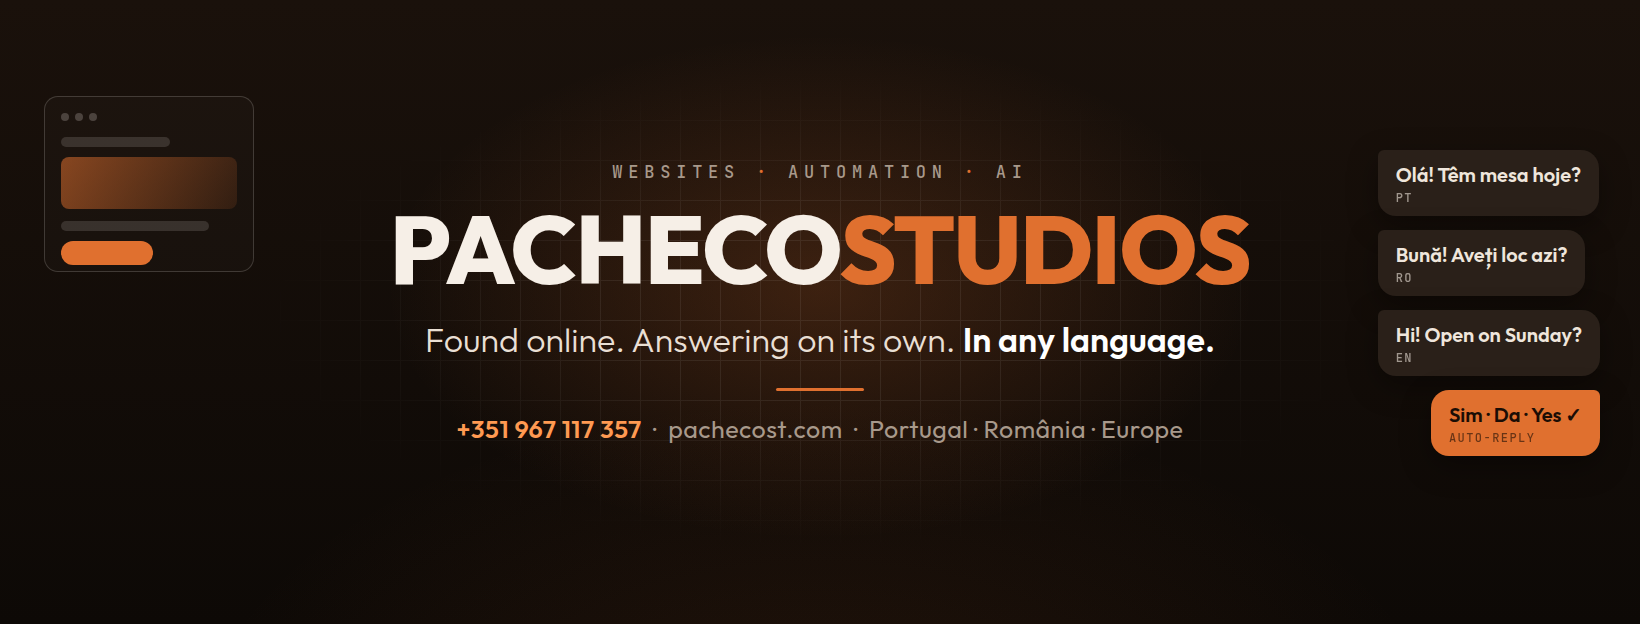
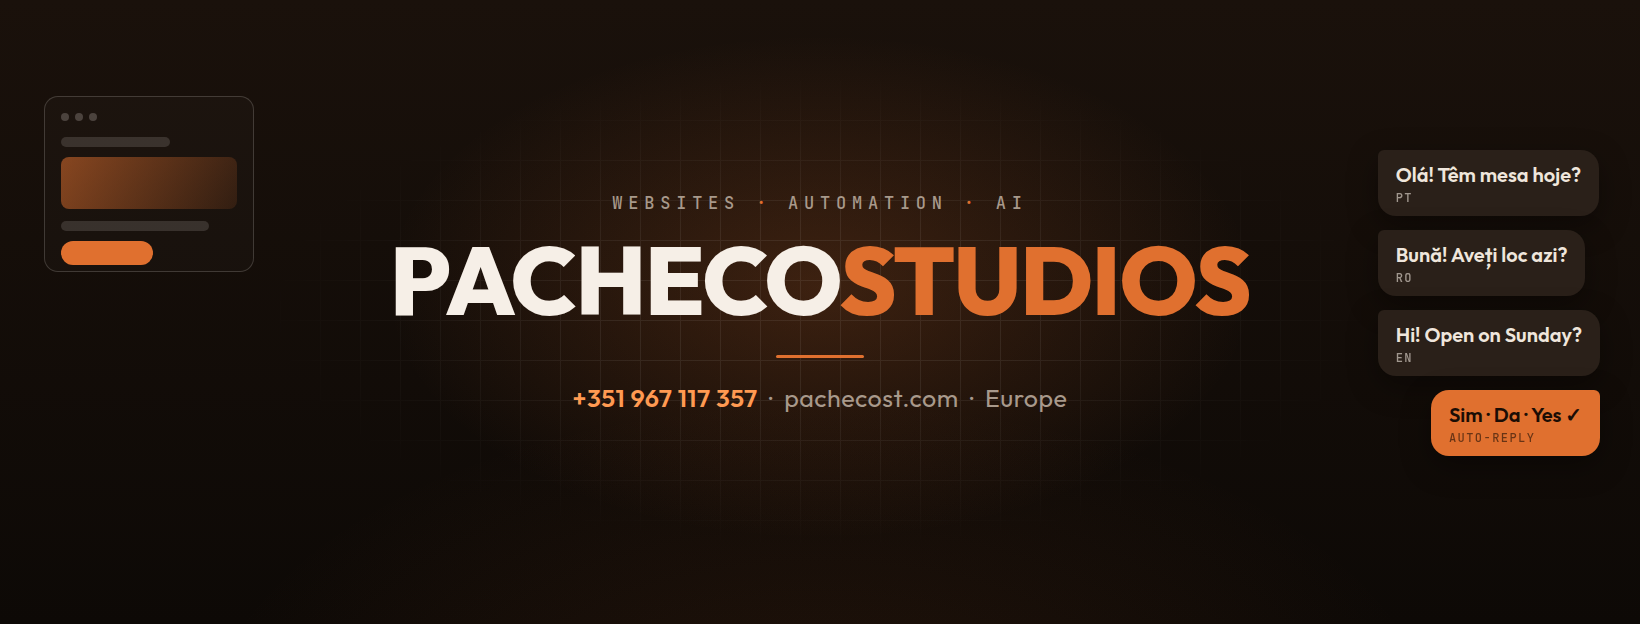
Capa Facebook: sem frase, só «Europe» no rodapé
Claude-Session: https://claude.ai/code/session_01XJUeXh6MKzB42CShjQuGbC

Changed region(s): [[0.2177, 0.2436, 0.7774, 0.5785], [0.2799, 0.609, 0.7152, 0.7003]]

diff --git a/marca/capa-facebook/capa.html b/marca/capa-facebook/capa.html
@@ -25,7 +25,7 @@ html,body{width:1640px;height:624px;overflow:hidden;background:var(--bg);font-fa
 .w span{color:var(--or)}
 .t{font-weight:300;font-size:34px;line-height:1.3;margin-top:24px;color:#e9dfd4}
 .t em{font-style:normal;font-weight:600;color:#fff}
-.hr{width:88px;height:3px;background:var(--or);border-radius:2px;margin:26px auto 22px}
+.hr{width:88px;height:3px;background:var(--or);border-radius:2px;margin:30px auto 24px}
 .ct{font-size:25px;font-weight:400;color:var(--mut);letter-spacing:.02em}
 .ct b{color:var(--or2);font-weight:600}
 /* direita: bolhas de chat nas 3 línguas (automação / IA) */
@@ -63,9 +63,8 @@ html,body{width:1640px;height:624px;overflow:hidden;background:var(--bg);font-fa
 <div class="c">
   <div class="k">Websites <b>·</b> Automation <b>·</b> AI</div>
   <h1 class="w">PACHECO<span>STUDIOS</span></h1>
-  <p class="t">Found online. Answering on its own. <em>In any language.</em></p>
   <div class="hr"></div>
-  <p class="ct"><b>+351 967 117 357</b> &nbsp;·&nbsp; pachecost.com &nbsp;·&nbsp; Portugal · România · Europe</p>
+  <p class="ct"><b>+351 967 117 357</b> &nbsp;·&nbsp; pachecost.com &nbsp;·&nbsp; Europe</p>
 </div>
 </body>
 </html>
